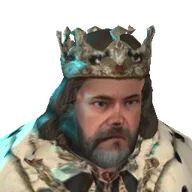
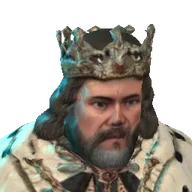
Grips pass 2: provenance, King Aldric's and Biscuit's portraits, CHANGELOG and docs (hand rules, arm cloth by surface, audit options)
Claude-Session: https://claude.ai/code/session_01PfNGaHafsFeFAcWZgUEzoB

diff --git a/packages/client/src/frontend/portraitIndex.ts b/packages/client/src/frontend/portraitIndex.ts
@@ -6,7 +6,7 @@
  * since the last capture, or a player's own design) is rendered live.
  */
 export const SHIPPED_PORTRAITS: Readonly<Record<string, string>> = {
-  'core.aldric': 'core.aldric.webp?v=b1e75ca66a',
+  'core.aldric': 'core.aldric.webp?v=874ce6a8b1',
   'core.ansel': 'core.ansel.webp?v=07d31667c1',
   'core.anubis': 'core.anubis.webp?v=eeb8ed4e7f',
   'core.ashwalker': 'core.ashwalker.webp?v=238bb96d3d',
@@ -14,7 +14,7 @@ export const SHIPPED_PORTRAITS: Readonly<Record<string, string>> = {
   'core.barnacle': 'core.barnacle.webp?v=f9541571ca',
   'core.basile': 'core.basile.webp?v=da4db6f833',
   'core.bigbab': 'core.bigbab.webp?v=58022c2150',
-  'core.biscuit': 'core.biscuit.webp?v=f09847f014',
+  'core.biscuit': 'core.biscuit.webp?v=ba5731f5de',
   'core.bogdan': 'core.bogdan.webp?v=88ea18a54b',
   'core.boglurker': 'core.boglurker.webp?v=449170ede7',
   'core.bonejack': 'core.bonejack.webp?v=ad96123939',

diff --git a/CHANGELOG.md b/CHANGELOG.md
@@ -24,6 +24,14 @@ made only on a commit that passed CI on a check branch.
 - Driving no longer shakes: the body's lean, squat and dive come from the vehicle's real speed and turn rate instead of from frame-to-frame movement of its drawn position, and that position no longer jumps with the few ms each update arrives early or late. Most noticeable in the buggy's cockpit view.
 - The buggy's cockpit is drawn in far more detail while you drive it in first person (seats, wheel, dash and roll cage at about twice the geometry, with a sharper surface map); everyone else still sees the lighter model.
 
+**Hands on guns (grip pass 2)**
+- Support hands hold a long gun's handguard: the hand cups it over the base of its fingers and closes all the way round it (it used to sit under the gun, palm up with its fingers standing open: King Aldric, Dusty Colt, the Dapper, Shade, Ricochet and others).
+- Mitten-like hands (most Meshy hands, whose fingers can't be told apart) curl along the whole finger instead of folding once at the knuckles like a paddle; long fingers (Croakley, Scamp, Old King Halvard) curl further.
+- King Aldric has real hands: his fur cuffs had been taken for his hands (their fingers curled into flaps) and his model's hands were cut to a few dozen triangles; he is re-cut from his Meshy rig with more detail kept for the hands.
+- Capt. Nova no longer holds her rifle against her helmet: a long gun's barrel keeps clear of every character's head.
+- Biscuit is rebuilt from his T-pose model (a cleaner body and paws); his paws stay firm on the grip in every view.
+- Teddy's round paws no longer tear when they close on a gun.
+
 **New characters and sharper ones**
 - Six new characters from the owner's Meshy T-pose models: **Croakley** (a frog in suspenders), **Scamp** (a small monkey) and **Greyfang** (a wolf) in Animals, **Snikkit** (a goblin) in Creatures & Machines, **Old King Halvard** in Knights & Legends and **Sgt. Pruitt** (a police officer) in Soldiers. A seventh, Barnaby Bruin (a gentleman bear), waits for a lighter build.
 - The Visitor, Elder Tomo, Flt. Lt. Ember and Merrow the Wise are rebuilt from fresh downloads of the same models: sharper faces and hands, and hands fitted to the T-pose so they close on the grip. Merrow's hands come out of his sleeves.
